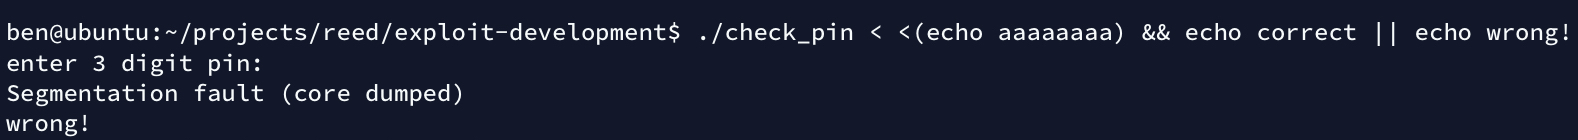
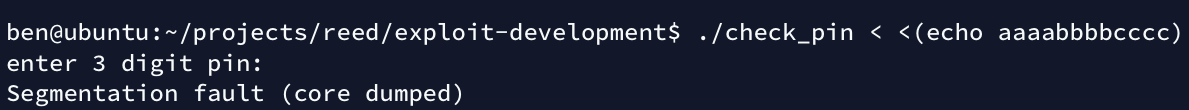
update string

Changed region(s): [[0.0, 0.1636, 0.9958, 0.9818]]

diff --git a/exploit-development/readme.md b/exploit-development/readme.md
@@ -197,7 +197,7 @@ Let's see what happens when we stray from the happy path!
 > check_pin with overlong input:
 
 ```sh
-./check_pin <(echo aaaaaaaa) && echo correct || echo wrong!
+./check_pin <(echo aaaabbbbcccc) && echo correct || echo wrong!
 ```
 > check_pin-segmentation-fault.jpg
 
@@ -222,7 +222,8 @@ Let's give it another go from within gdb to find out why that happened.
 gdb check_pin
 
 # (gdb)
-run < <(echo aaaaaaaa)
+break *main
+run < <(echo aaaabbbbcccc)
 ```
 
 # sources and references
